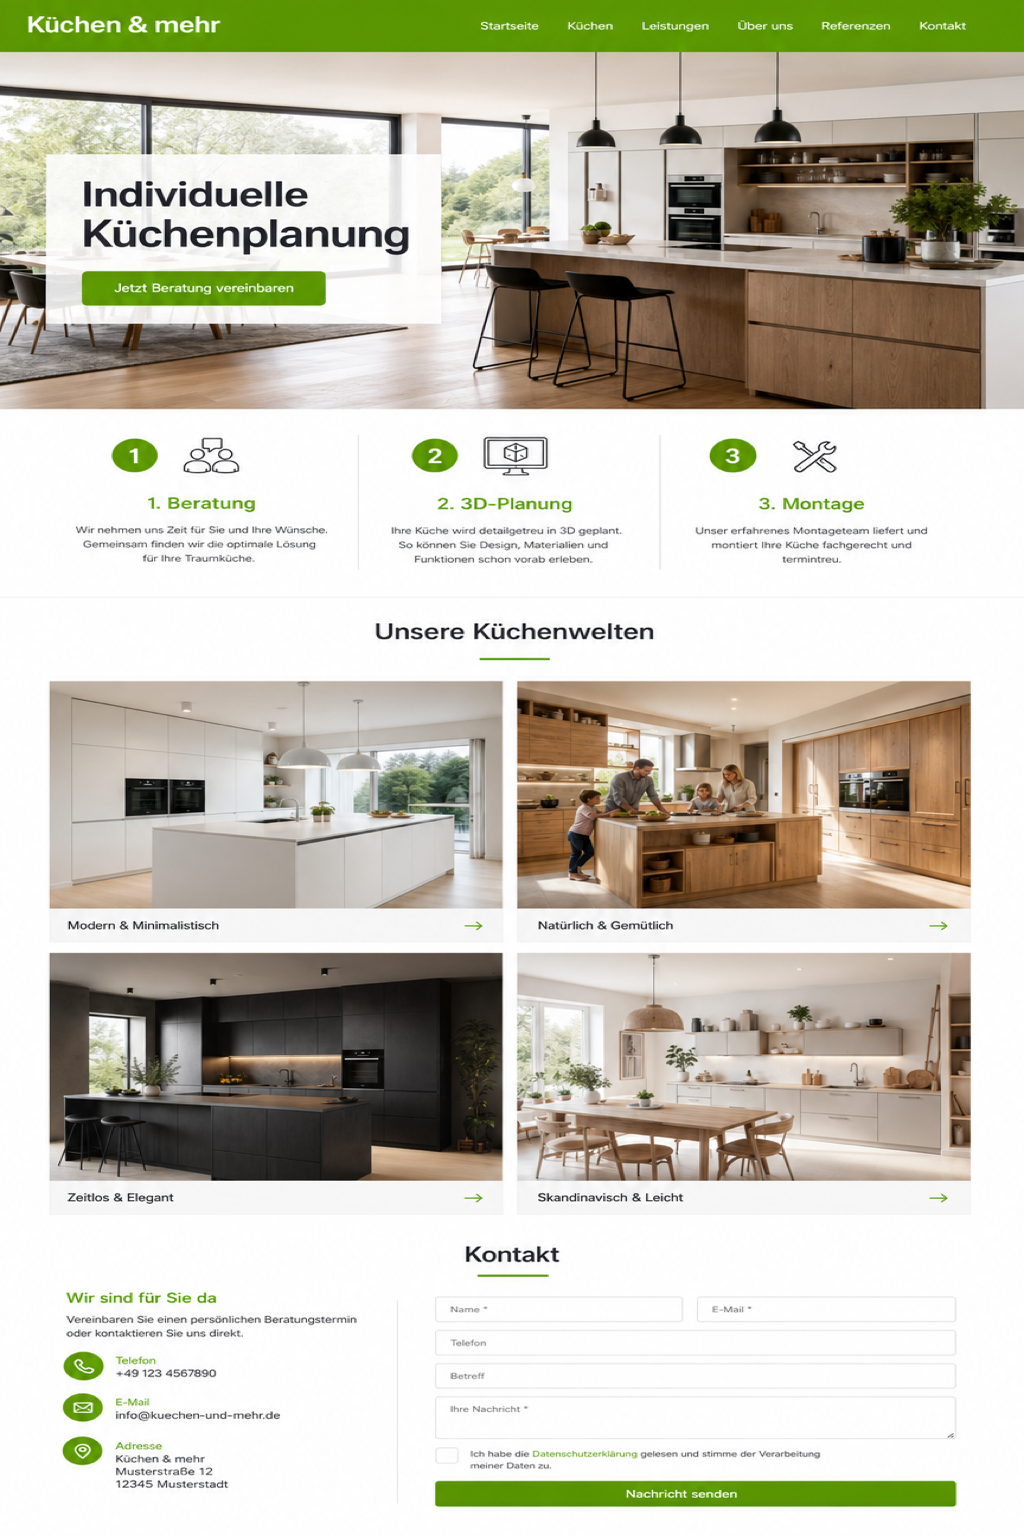
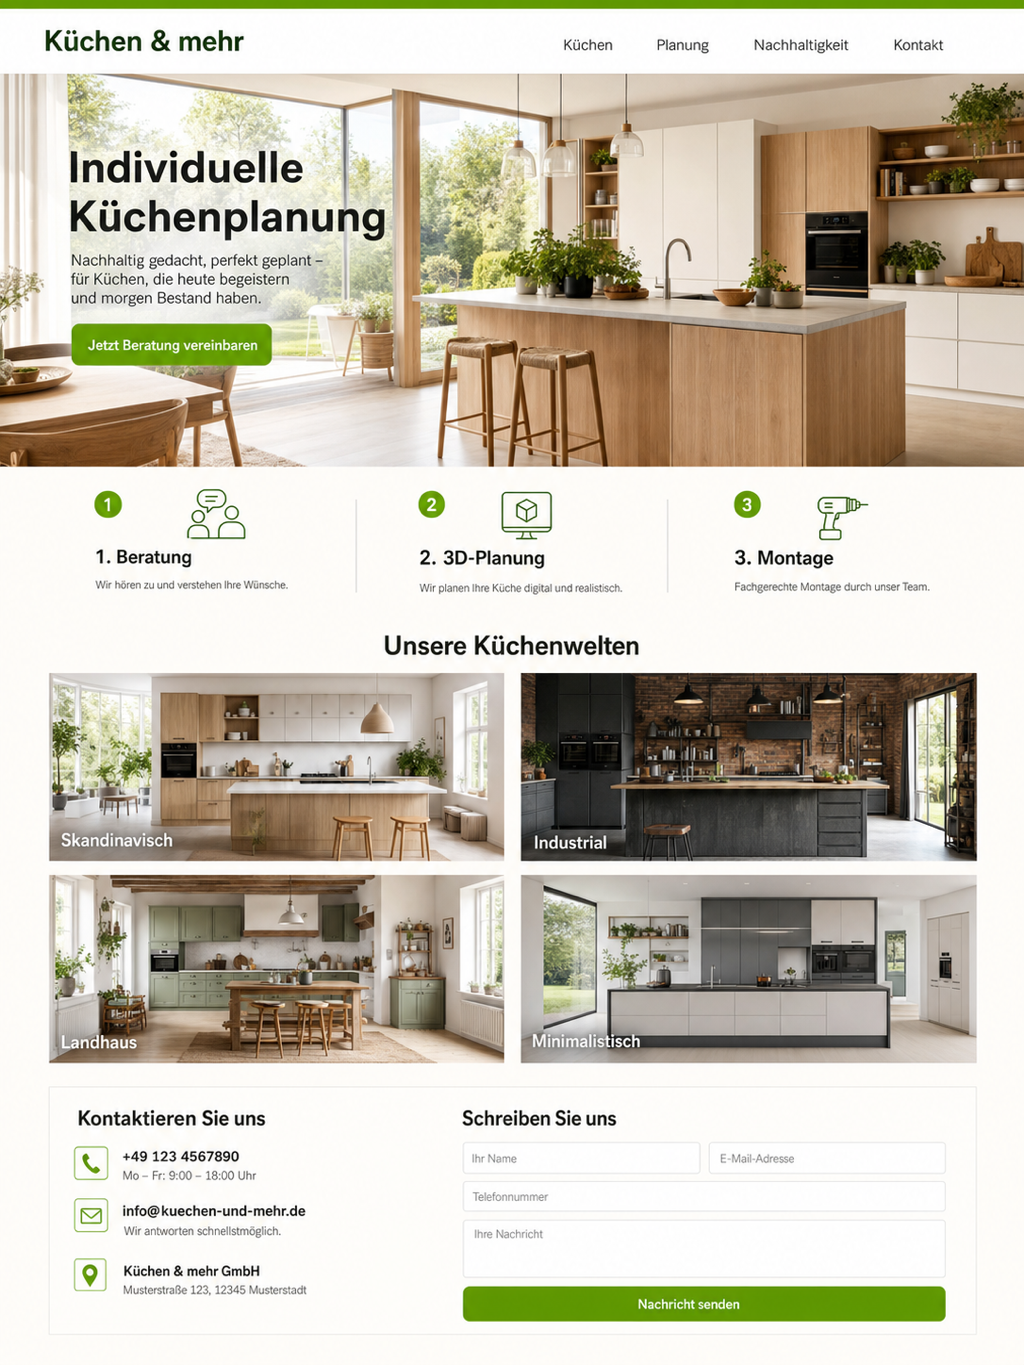
Redesign iPad showcase: 3:4 aspect ratio + premium gpt-5.5 images
- Changed example-tablet CSS from aspect-ratio 2/3 to 3/4 (real iPad
  proportions) and switched to height:auto to prevent stretching
- Regenerated all 3 showcase images with gpt-5.5 at 1024x1365:
  warm kitchen studio, dark luxury showroom, eco-friendly planner

diff --git a/index.html b/index.html
@@ -72,8 +72,8 @@
     @media(max-width:820px){.examples-grid{grid-template-columns:1fr;}}
     @media(min-width:500px) and (max-width:820px){.examples-grid{grid-template-columns:repeat(2,1fr);}}
     .example-card{display:flex;flex-direction:column;gap:14px;}
-    .example-tablet{background:#2a1f14;border:6px solid #2a1f14;border-radius:18px;padding:0;box-shadow:0 20px 40px -16px rgba(40,24,12,.4);overflow:hidden;aspect-ratio:2/3;}
-    .example-tablet img{border-radius:12px;width:100%;height:100%;display:block;object-fit:cover;}
+    .example-tablet{background:#2a1f14;border:6px solid #2a1f14;border-radius:18px;padding:0;box-shadow:0 20px 40px -16px rgba(40,24,12,.4);overflow:hidden;aspect-ratio:3/4;}
+    .example-tablet img{border-radius:12px;width:100%;height:auto;display:block;}
     .example-tag{display:inline-block;background:var(--green-soft);color:var(--green);font-size:12px;font-weight:600;letter-spacing:.04em;text-transform:uppercase;padding:4px 11px;border-radius:999px;}
     .example-card h3{font-size:17px;font-weight:700;margin:2px 0 0;color:var(--ink);}
     .example-card p{font-size:13.5px;color:var(--muted);margin:0;line-height:1.5;}
